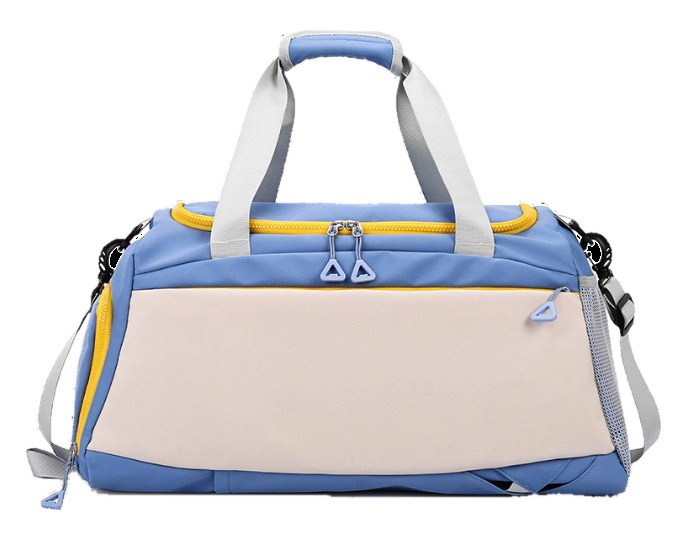
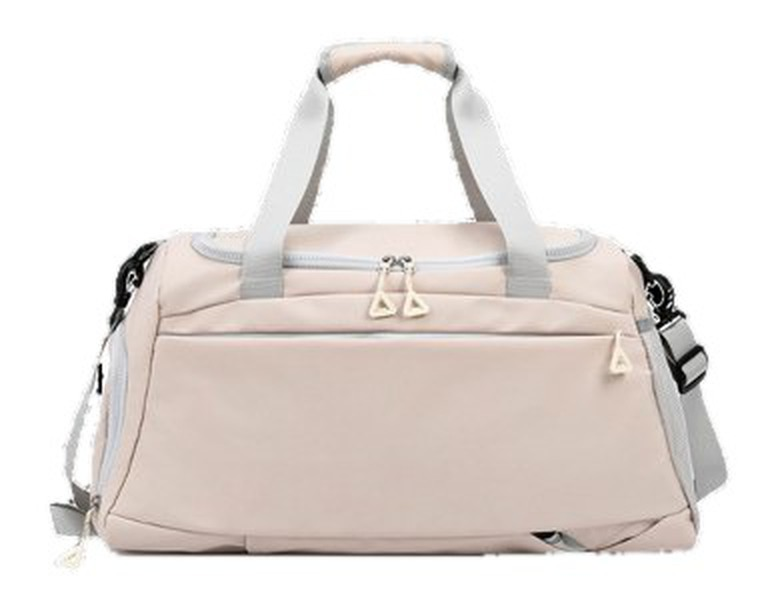
包包頁：款 2 主圖改米色

Changed region(s): [[0.0303, 0.0598, 0.9697, 0.957], [0.6667, 0.2991, 0.697, 0.329]]

diff --git a/bags.html b/bags.html
@@ -70,10 +70,10 @@ figcaption{padding:8px 14px;font-size:15px;color:var(--sub);background:var(--car
    <a class="go" href="https://www.baychin.com.tw/product5/7499" target="_blank" rel="noopener">看官網 →</a></div>
  </div>
  <div class="bag">
-  <div class="ph"><span class="pw"><img src="img/bags/d106.jpg" alt="款 2 D106 橫式三用包"><i class="lg" style="left:19%;top:55%;width:63%;height:30%">LOGO</i></span></div>
+  <div class="ph"><span class="pw"><img src="img/bags/d106.jpg?v=2" alt="款 2 D106 橫式三用包"><i class="lg" style="left:20%;top:57%;width:62%;height:29%">LOGO</i></span></div>
   <div class="bd"><span class="no">款 2</span><b class="nm">D106 橫式</b>
    <div class="pr">495<small>元／個，含稅，50 個</small></div>
-   <div class="chips"><span>約 36 L</span><span>53 × 26 × 26 cm</span><span>五色</span></div>
+   <div class="chips"><span>約 36 L</span><span>53 × 26 × 26 cm</span><span>五色，圖為米色</span></div>
    <a class="go" href="https://www.baychin.com.tw/product5/9143" target="_blank" rel="noopener">看官網 →</a></div>
  </div>
  <div class="bag">
@@ -87,7 +87,7 @@ figcaption{padding:8px 14px;font-size:15px;color:var(--sub);background:var(--car
 
 <h2>對照表</h2>
 <div class="tw"><table>
-<thead><tr><th>項目</th><th><img src="img/bags/d094.jpg" alt="">款 1 D094</th><th><img src="img/bags/d106.jpg" alt="">款 2 D106</th><th><img src="img/bags/d097.jpg" alt="">款 3 D097</th></tr></thead>
+<thead><tr><th>項目</th><th><img src="img/bags/d094.jpg" alt="">款 1 D094</th><th><img src="img/bags/d106.jpg?v=2" alt="">款 2 D106</th><th><img src="img/bags/d097.jpg" alt="">款 3 D097</th></tr></thead>
 <tbody>
 <tr><th>官網</th><td><a href="https://www.baychin.com.tw/product5/7499" target="_blank" rel="noopener">product5/7499</a></td><td><a href="https://www.baychin.com.tw/product5/9143" target="_blank" rel="noopener">product5/9143</a></td><td><a href="https://www.baychin.com.tw/product5/7998" target="_blank" rel="noopener">product5/7998</a></td></tr>
 <tr><th>型式</th><td>直立式三用<br>後背肩帶可收納<br>獨立鞋層、電腦層</td><td>橫式三用<br>行李插帶套拉桿<br>獨立鞋層、前後拉鍊袋</td><td>橫式梯形三用<br>行李箱固定帶、減壓肩帶<br>鞋層，官網標球隊愛用款</td></tr>
